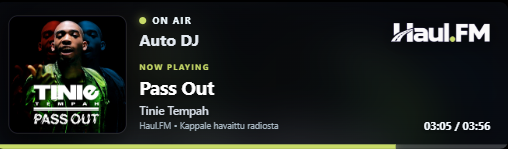
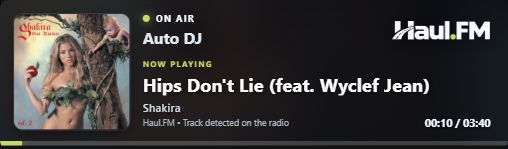
Fix English README preview to show the English application interface

diff --git a/README.en.md b/README.en.md
@@ -6,7 +6,7 @@ A Windows overlay that displays the track currently playing on Haul.FM in a smal
 
 ![HaulFM Overlay preview](preview-en.png)
 
-*Screenshot of version 1.2.21 with the Finnish interface, showing Auto DJ and Pass Out by Tinie Tempah. An English interface is also available. The track, artwork and timing information change with the broadcast.*
+*Screenshot of version 1.2.21 with the English interface. The track, artwork and timing information change with the broadcast.*
 
 ## Download
 
